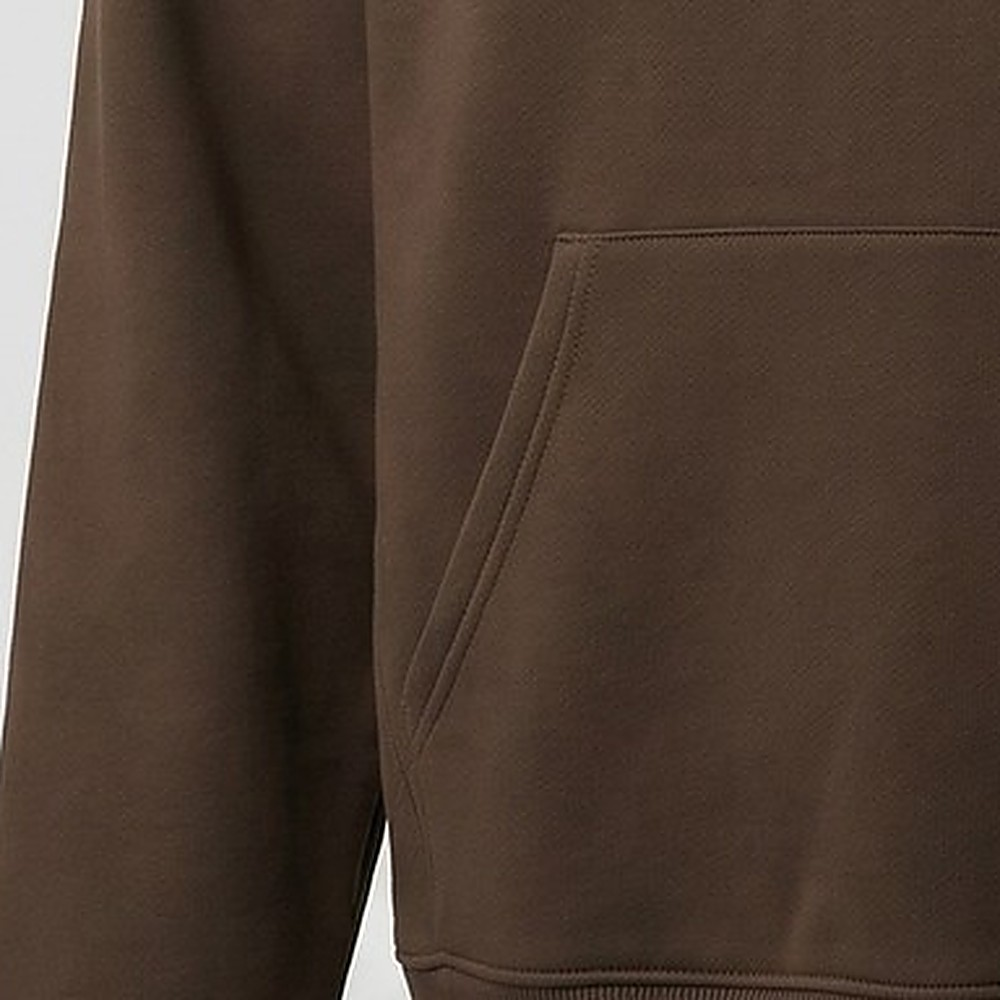
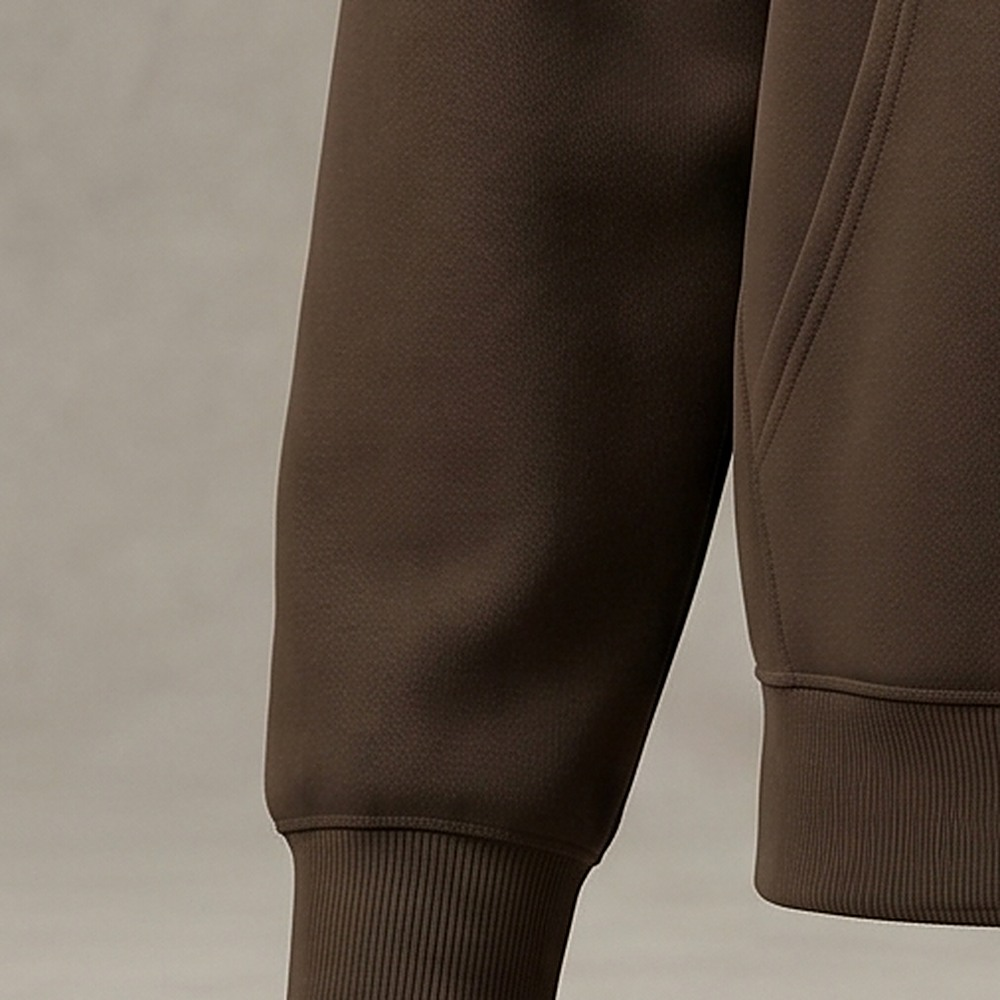
Patch Alo Grey + Espresso with available metallic v2 shots
Use the v2 shots already generated for Grey (front/side/product) and
Espresso (front/product) — metallic 'alo' logo, concrete-studio bg — so
9/11 products are on the new cohesive style. catalog_photos now accepts
partial view sets (front + >=2 gallery views). Navy and Crewneck keep
their current photos (their v2 shots weren't generated before credits ran
out).

diff --git a/store/management/commands/catalog_photos.py b/store/management/commands/catalog_photos.py
@@ -38,17 +38,19 @@ class Command(BaseCommand):
             if not color:
                 continue
 
-            # solo actualiza si las fotos v2 ya existen (despliegue parcial seguro)
-            needed = [f"products/ai/v2/{slug}-{v}.jpg" for v in ["front"] + GALLERY_VIEWS]
-            if not all((settings.MEDIA_ROOT / p).exists() for p in needed):
-                self.stdout.write(f"  · {product.name} — sin fotos v2, se deja como está")
+            # necesita el frente (principal) + al menos 2 vistas de galería disponibles
+            def have(v):
+                return (settings.MEDIA_ROOT / f"products/ai/v2/{slug}-{v}.jpg").exists()
+            gallery_views = [v for v in GALLERY_VIEWS if have(v)]
+            if not have("front") or len(gallery_views) < 2:
+                self.stdout.write(f"  · {product.name} — sin fotos v2 suficientes, se deja como está")
                 continue
 
             color.image = f"products/ai/v2/{slug}-front.jpg"
             color.save(update_fields=["image"])
 
             ProductImage.objects.filter(product=product, color=color).delete()
-            for i, view in enumerate(GALLERY_VIEWS):
+            for i, view in enumerate(gallery_views):
                 ProductImage.objects.create(
                     product=product, color=color, sort_order=i,
                     image=f"products/ai/v2/{slug}-{view}.jpg",
